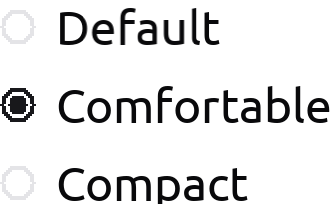
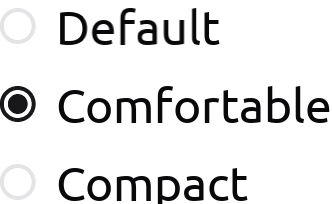
Regenerate example screenshots
Reflects device-resolution anti-aliasing of vector shapes (51961ec) — rounded
corners, circles, diagonal strokes — and the tabbed-pane selector clipping
(f788ca4). Workbench embed width updates 1595→1285 as its content box shrank
with the clipped selector row.

diff --git a/README.md b/README.md
@@ -164,7 +164,7 @@ the [Roadmap](guide/roadmap.md)).
 
 | Syntax tree | Julia AST | Workbench |
 |---|---|---|
-| <img width="586" alt="Syntax example" src="image/example/syntax.png"> | <img width="336" alt="Julia AST example" src="image/example/julia.png"> | <img width="1595" alt="Workbench example" src="image/example/workbench.png"> |
+| <img width="586" alt="Syntax example" src="image/example/syntax.png"> | <img width="336" alt="Julia AST example" src="image/example/julia.png"> | <img width="1285" alt="Workbench example" src="image/example/workbench.png"> |
 
 ---
 

diff --git a/guide/examples-tour.md b/guide/examples-tour.md
@@ -171,7 +171,7 @@ nodes; the cursor understands the structure of the code.
 
 ## 6. Workbench (`run_example("workbench")`)
 
-<img width="1595" alt="Workbench example" src="../image/example/workbench.png">
+<img width="1285" alt="Workbench example" src="../image/example/workbench.png">
 
 **What it demonstrates:** The full IDE shell. The workbench is a compound
 document that wraps any other document in a structured editor environment with

diff --git a/guide/document/workbench.md b/guide/document/workbench.md
@@ -1,6 +1,6 @@
 # Workbench Domain
 
-<img width="1595" alt="Workbench example" src="../../image/example/workbench.png">
+<img width="1285" alt="Workbench example" src="../../image/example/workbench.png">
 
 The workbench domain models an IDE-style workspace. It is implemented in
 [program/src/document/Workbench.jl](../../program/src/document/Workbench.jl)
